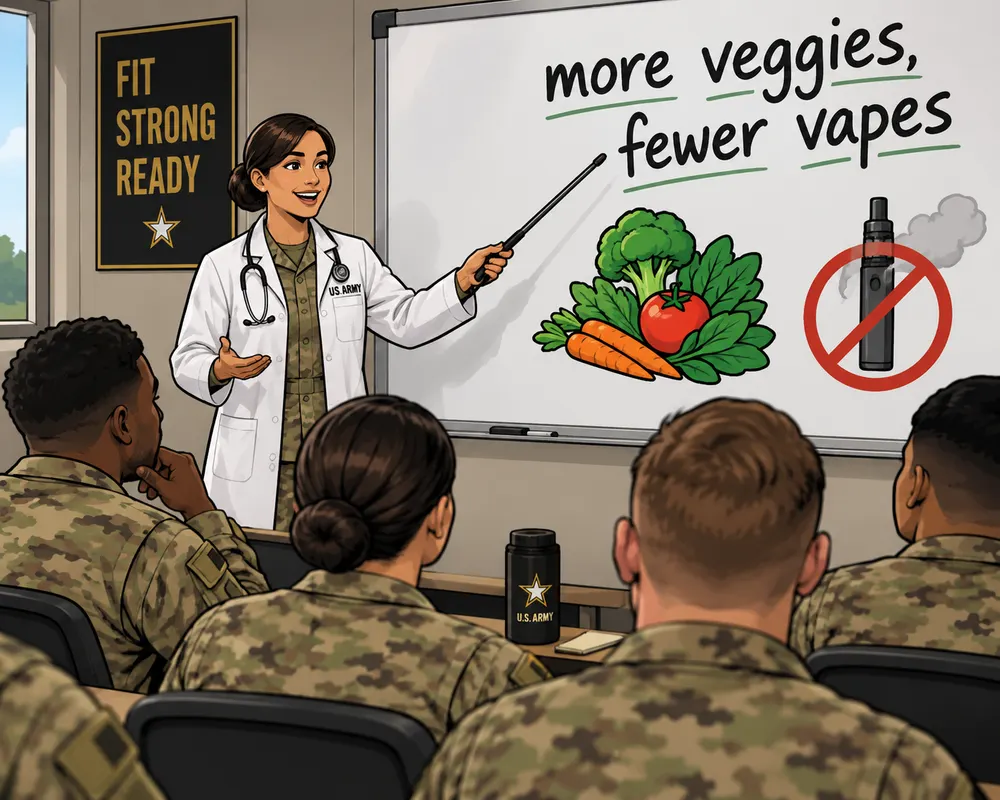
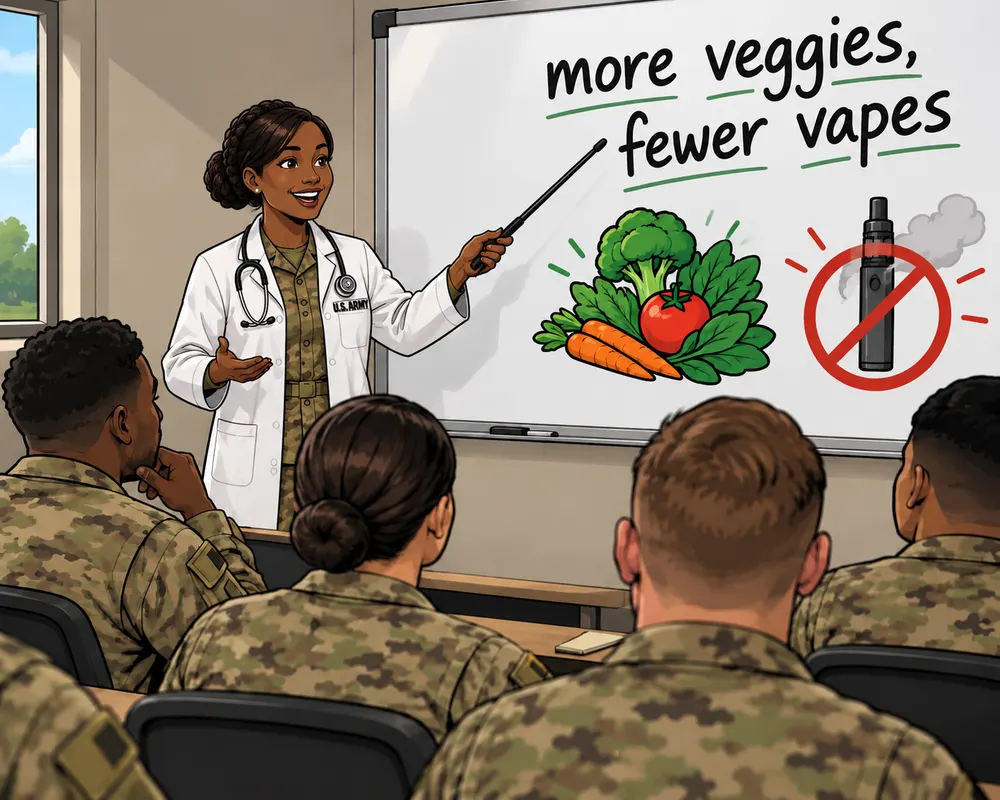
Add second batch of illustrations (Pages 2, 8, 15, 17, 19)
- Page 2: replaced the resources-page instructor image with the
  corrected upload (same file path, new content)
- Page 8: soldiers training together in a gym, above the second
  question (who to train with)
- Page 15: a "Level of Effort" dial with every setting on MAX,
  followed by a new required free-text question, "Why?"
- Page 17: "The More You Know" rainbow/star, above the second
  question (nutrition belief)
- Page 19: a four-panel Drake meme (reject junk food/alcohol,
  approve salad/sleep), above the second question (sleep belief)

Compressed all five the same way as the first batch (~1.3-2.4MB
PNGs down to ~55-200KB WebP).

Claude-Session: https://claude.ai/code/session_01FocG36Ti6Kr1ZE3JcEDjzZ

diff --git a/src/config/survey.ts b/src/config/survey.ts
@@ -238,6 +238,7 @@ export const SURVEY_PAGES: SurveyPage[] = [
       {
         id: 'q6b',
         type: 'single-select',
+        image: { src: '/illustrations/gym-group-training.webp', alt: 'A group of soldiers training together in a gym' },
         prompt: 'If training with others, I prefer physical training with people who:',
         options: [
           { id: 'similar_goals', label: 'have similar fitness goals.' },
@@ -414,6 +415,12 @@ export const SURVEY_PAGES: SurveyPage[] = [
           { id: 'other', label: 'something else (explain).', explain: true },
         ],
       },
+      {
+        id: 'q13_why',
+        type: 'free-text',
+        image: { src: '/illustrations/effort-dial-max.webp', alt: 'A "Level of Effort" dial with every setting labeled MAX' },
+        prompt: 'Why?',
+      },
     ],
   },
   {
@@ -459,6 +466,10 @@ export const SURVEY_PAGES: SurveyPage[] = [
       {
         id: 'q_nutrition_belief',
         type: 'single-select',
+        image: {
+          src: '/illustrations/more-you-know-sleep-nutrition.webp',
+          alt: '"The More You Know" logo, styled with a rainbow and star, subtitled "about sleep and nutrition"',
+        },
         prompt:
           'If a soldier understands the importance of good nutrition and knows how to ensure he or she consumes appropriate portions and types of food, then the soldier will have a healthy diet.',
         options: ACCURACY_SCALE_OPTIONS,
@@ -496,6 +507,10 @@ export const SURVEY_PAGES: SurveyPage[] = [
       {
         id: 'q_others_sleep_belief',
         type: 'single-select',
+        image: {
+          src: '/illustrations/drake-meme-diet-sleep.webp',
+          alt: 'A four-panel "Drake meme" rejecting beer, energy drinks, and fast food, and approving of a salad and a made bed',
+        },
         prompt: 'Most soldiers get consistent, quality sleep of adequate duration.',
         options: ACCURACY_SCALE_OPTIONS,
       },
